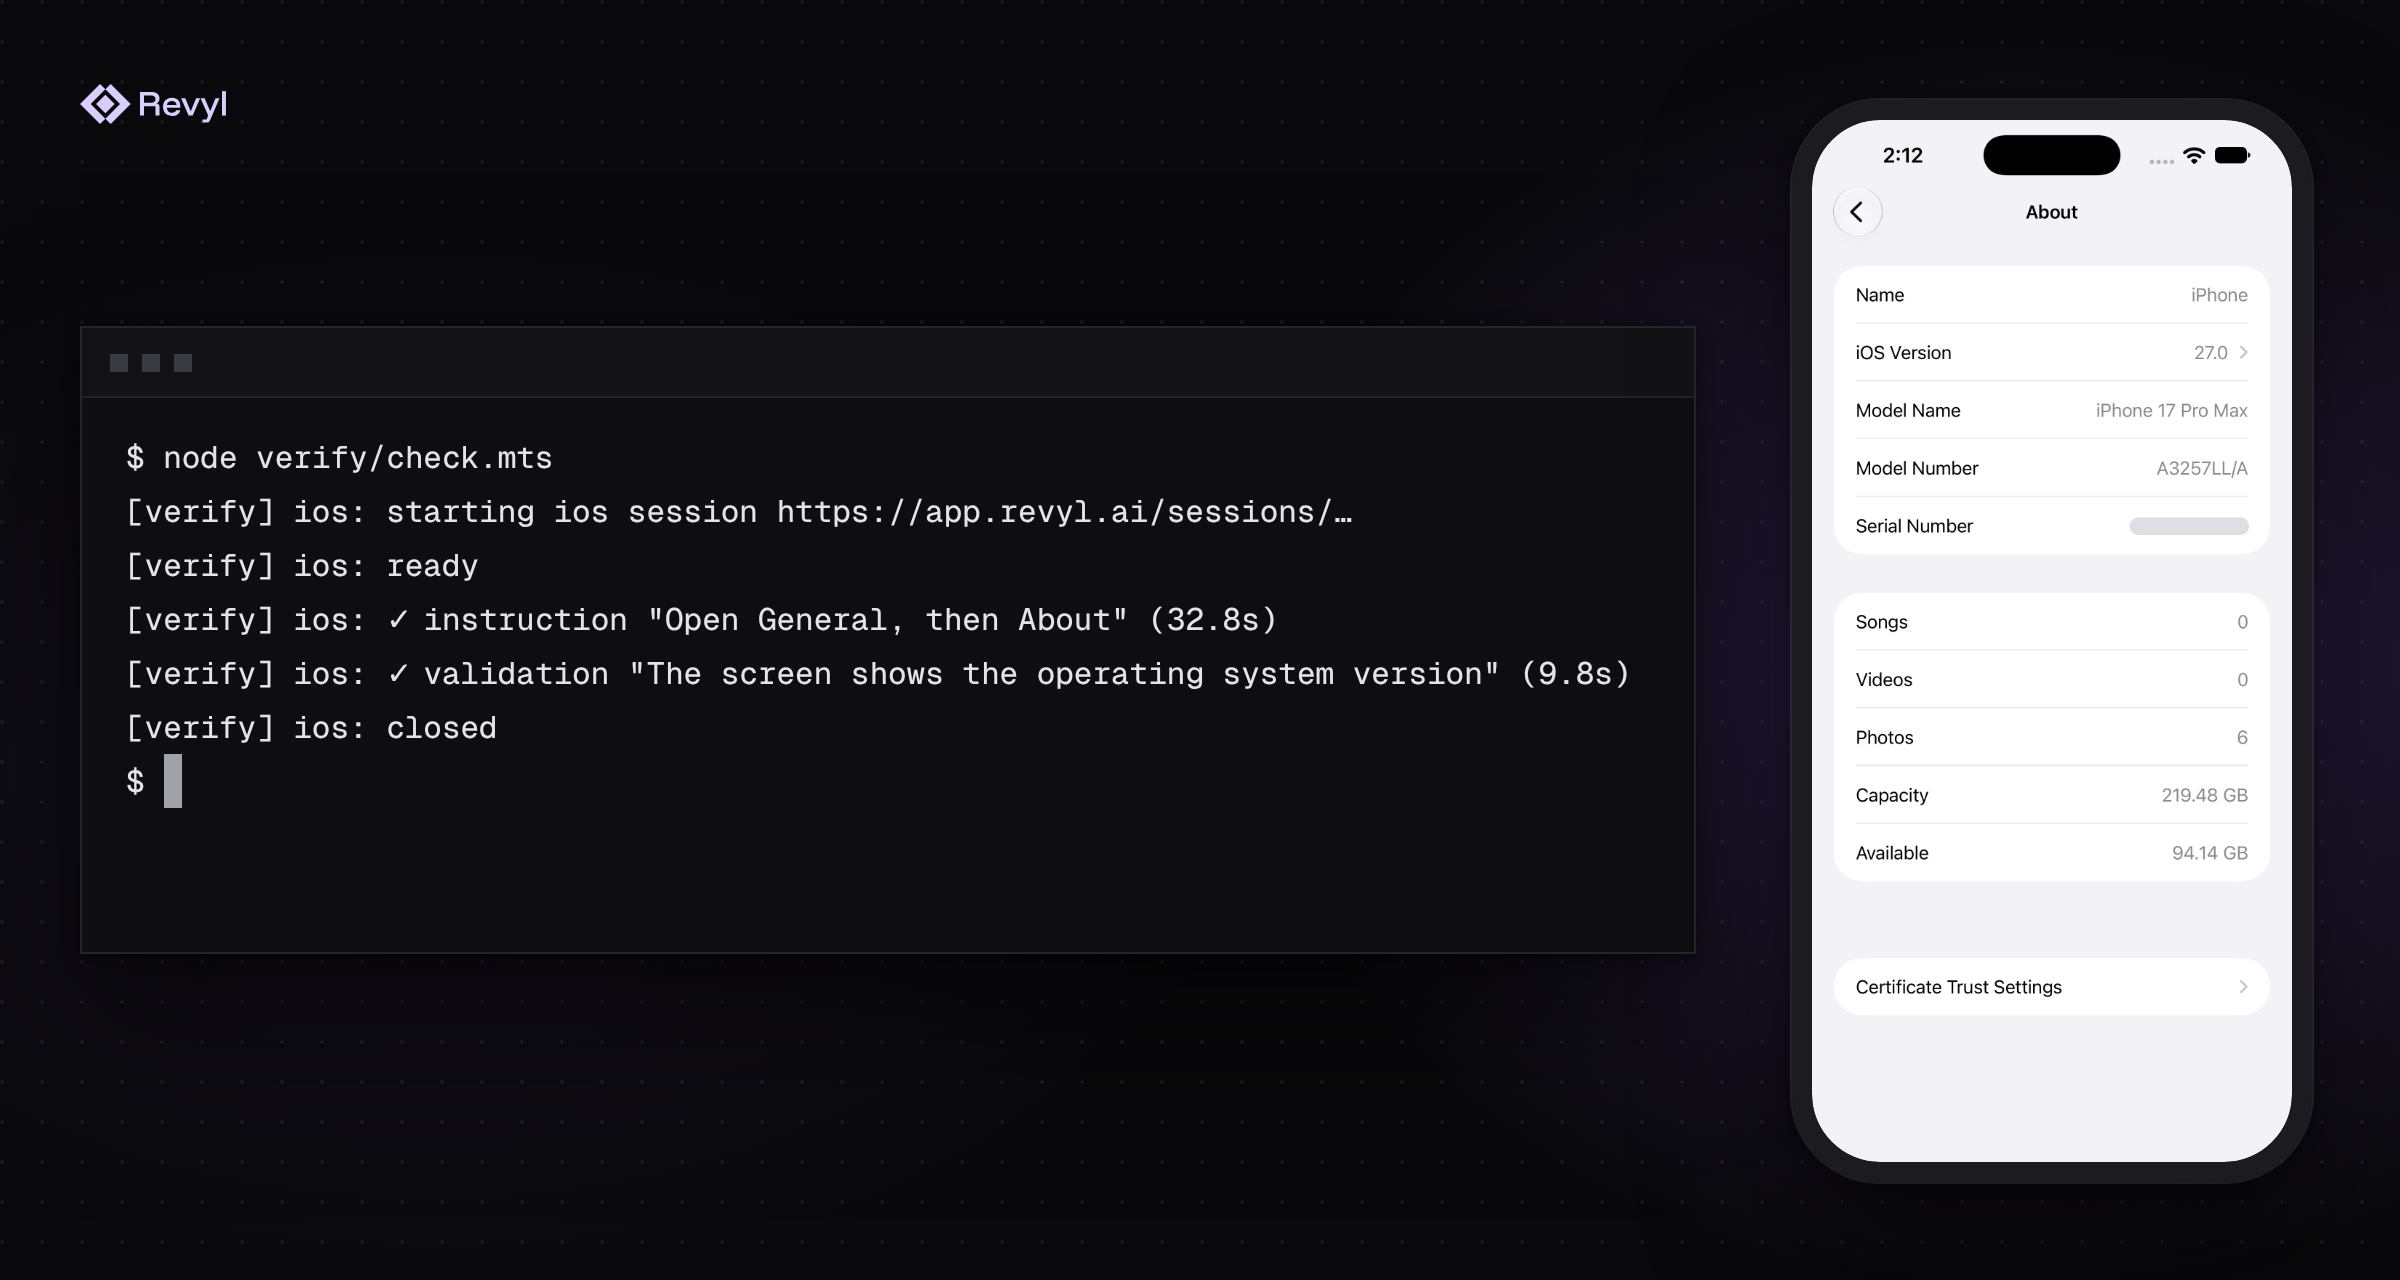
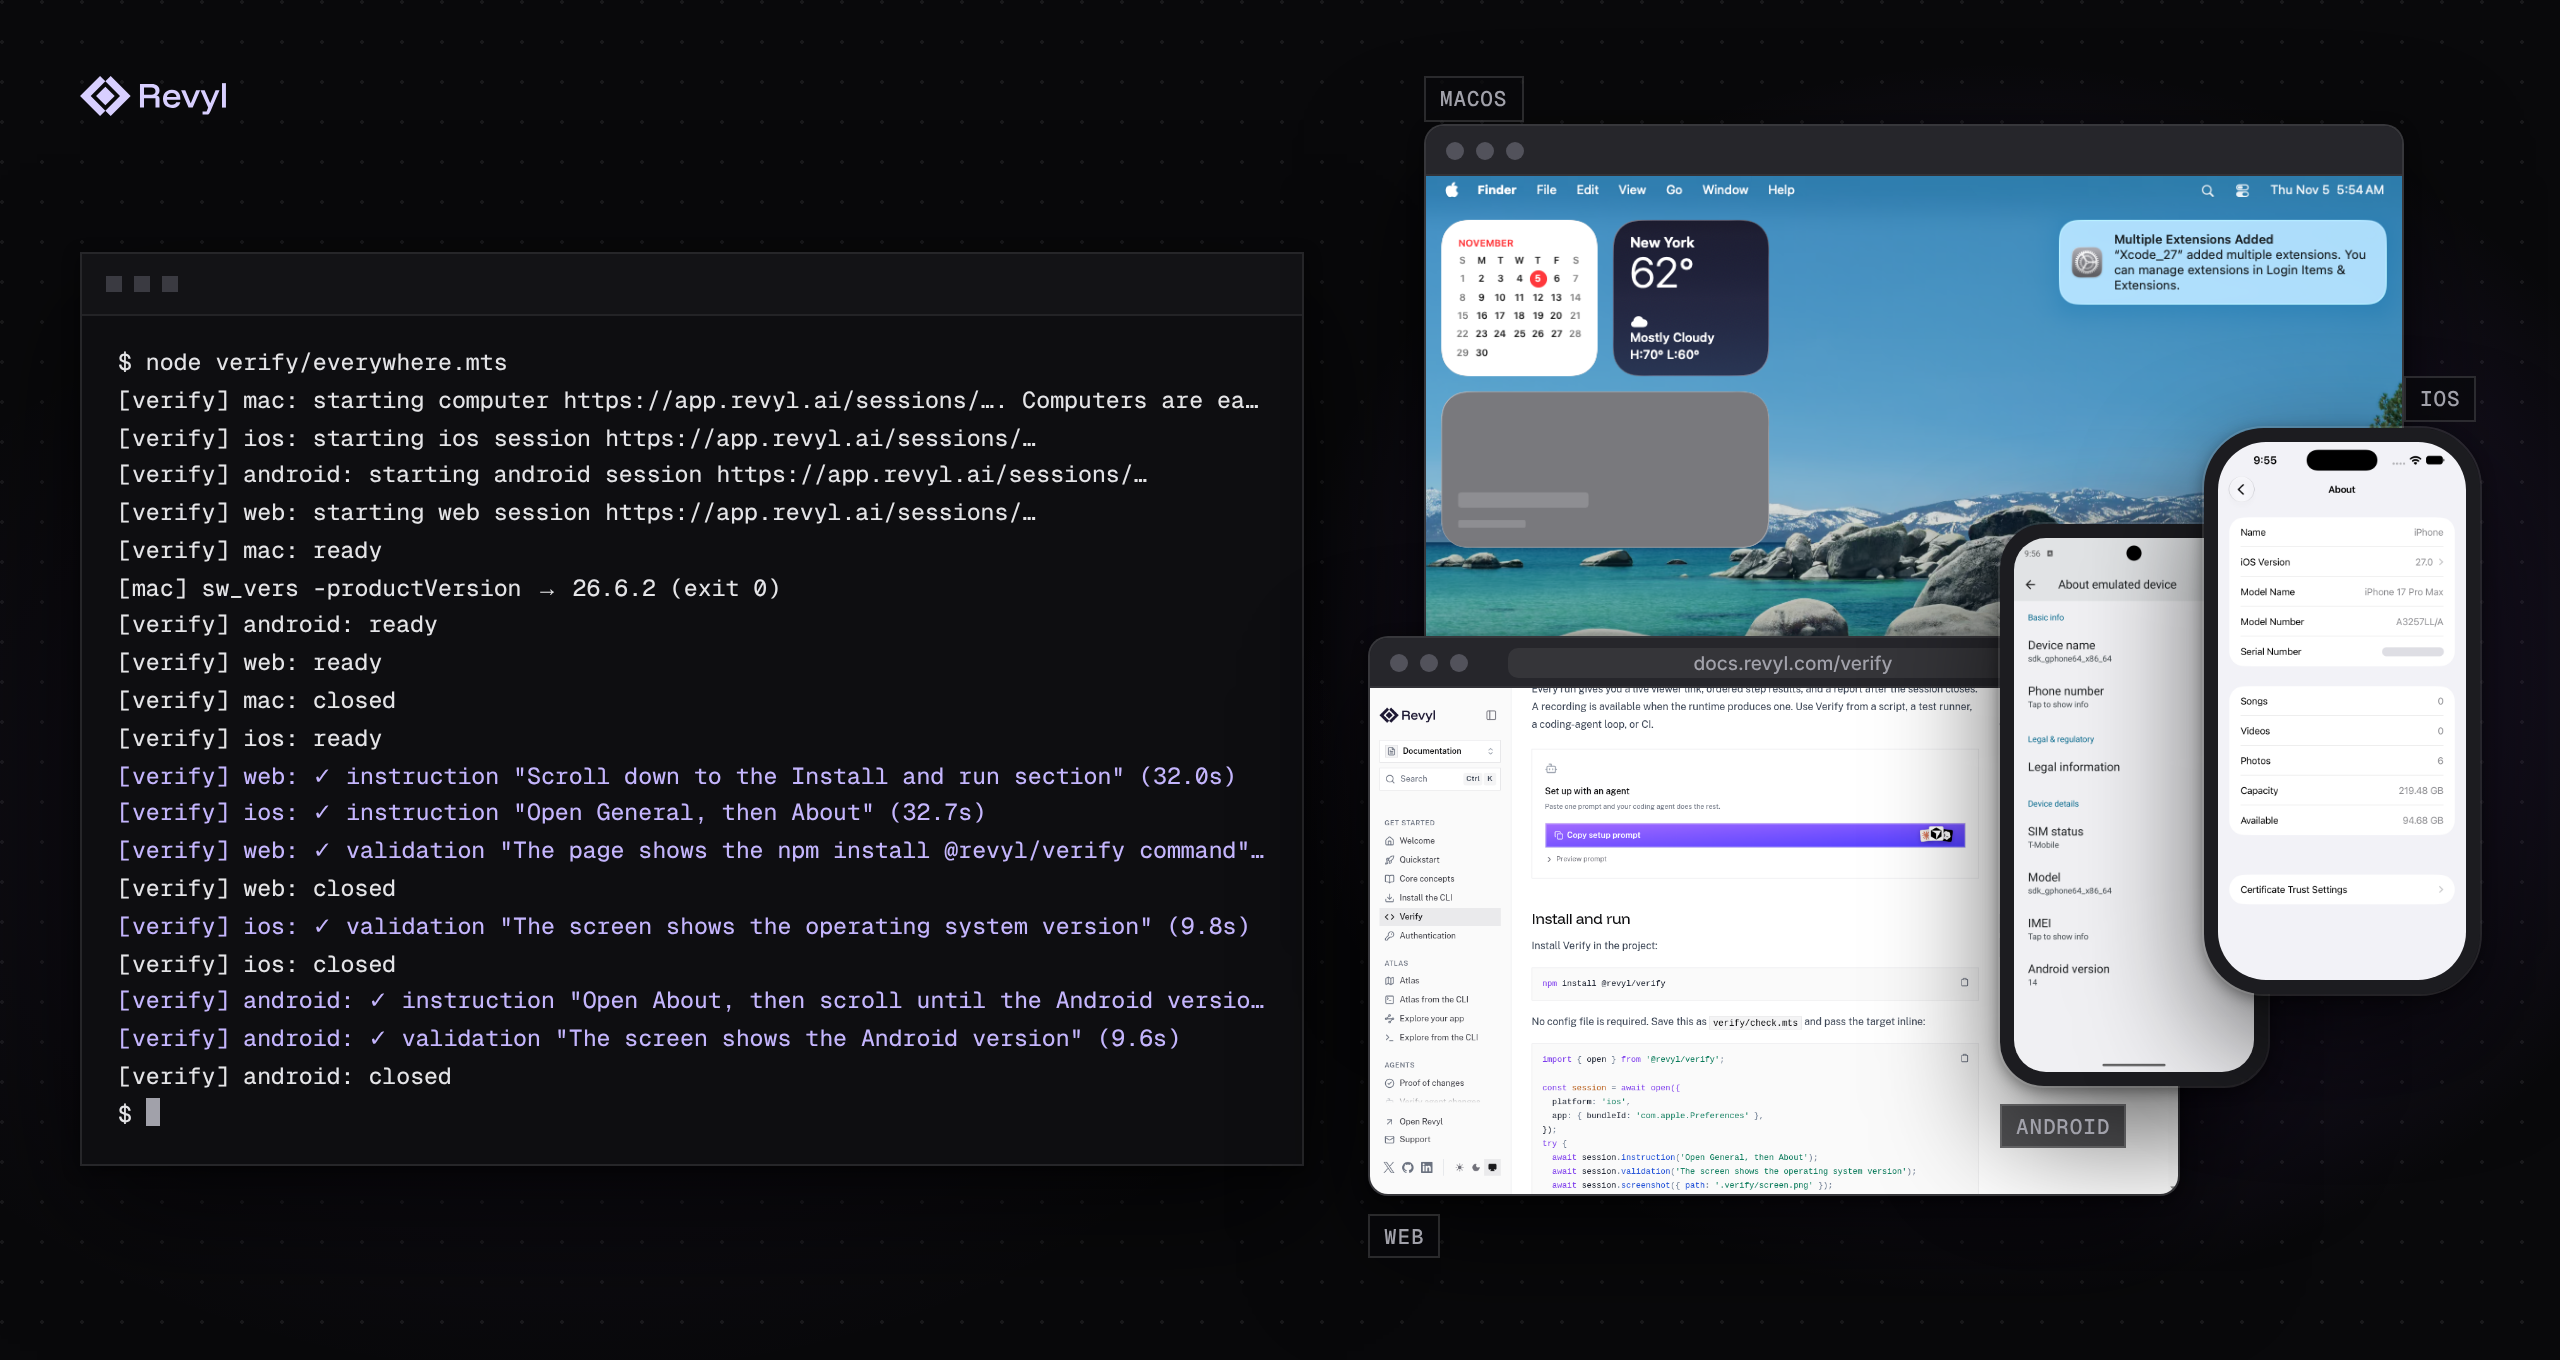
docs: show every Verify target in the README hero
Replace the iOS-only hero with one real run across an iOS simulator, an Android emulator, a cloud browser, and a Mac computer.

diff --git a/README.md b/README.md
@@ -1,6 +1,6 @@
 # Verify
 
-![Terminal output from node verify/check.mts beside the iOS Settings About screen the run opened on a Revyl simulator](docs/images/verify-hero.webp)
+![Terminal output from one Verify script beside the screens it reached on a Mac computer, a cloud browser, an Android emulator, and an iOS simulator](docs/images/verify-hero.webp)
 
 Verify runs end-to-end checks in a real browser, iOS simulator, or Android emulator on Revyl. You describe what the agent should do and what must be true afterward, instead of maintaining selectors and coordinates that break when a screen changes. Use it from a script, a coding agent, or the test runner you already have. Mac and Linux computers are also available for commands, files, and screenshots, not natural-language steps.
 
